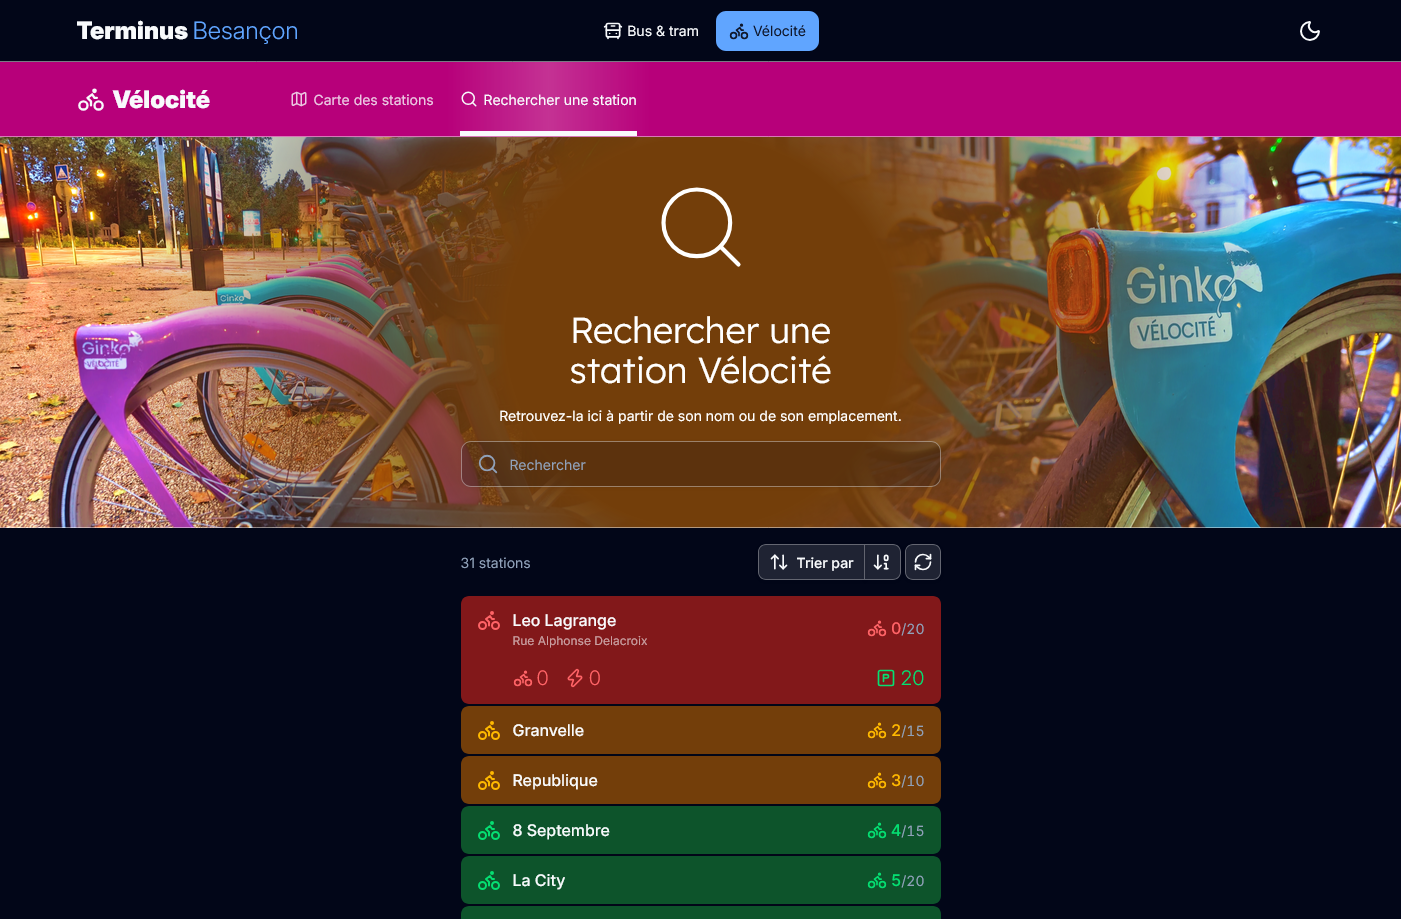
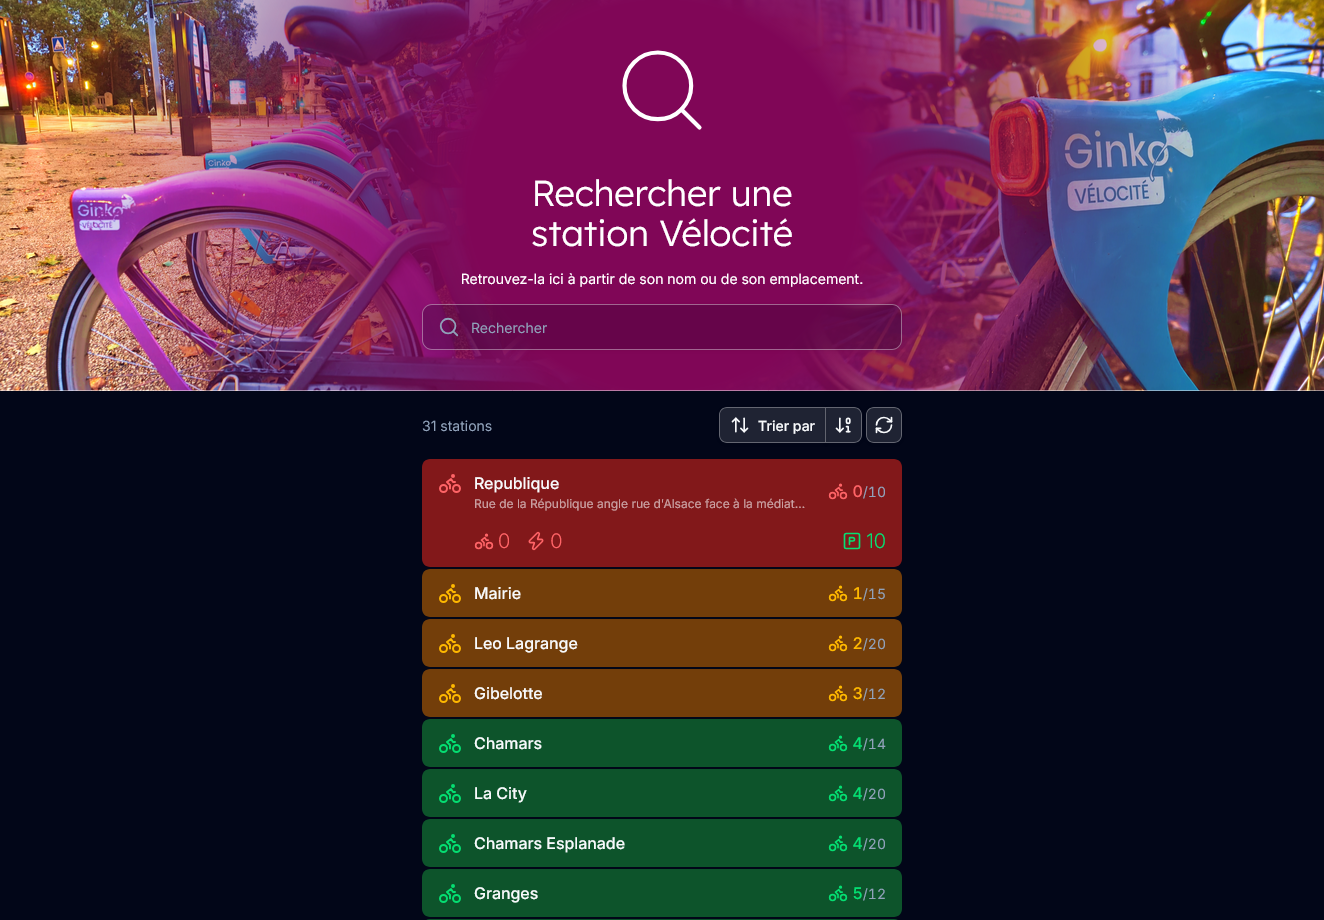
[Velocite/DetailsStation] Fix responsive problems

diff --git a/src/routes/velocite/stations/[id]/+page.svelte b/src/routes/velocite/stations/[id]/+page.svelte
@@ -63,9 +63,9 @@
 
 <main class="mb:pb-0 m-auto max-w-4xl p-4 pb-18">
 	<div
-		class="recap relative m-auto grid max-w-130 border-[#000000cc] lg:-mt-65 lg:mr-0 lg:max-w-138 lg:rounded-4xl lg:border-t lg:bg-background lg:p-4 lg:pb-0 xl:mx-auto dark:lg:border-[#ffffffaa]"
+		class="recap relative grid max-w-130 border-[#000000cc] sm:m-auto lg:-mt-65 lg:mr-0 lg:max-w-138 lg:rounded-t-4xl lg:border-t lg:bg-background lg:p-4 lg:pb-0 xl:mx-auto dark:lg:border-[#ffffffaa]"
 	>
-		<RecapSection {station} class="mb-4" />
+		<RecapSection {station} class="mb-0.5 md:mb-4" />
 		<ProgressBar {station} />
 	</div>
 
@@ -84,33 +84,35 @@
 </main>
 
 <style>
-	.recap {
-		--corner-size: 30px;
-		&::before,
-		&::after {
-			content: '';
-			position: absolute;
-			background: var(--background);
-			width: var(--corner-size);
-			height: var(--corner-size);
-			top: 213px;
-		}
+	@media (width >= 64rem /* 1024px */) {
+		.recap {
+			--corner-size: 30px;
+			&::before,
+			&::after {
+				content: '';
+				position: absolute;
+				background: var(--background);
+				width: var(--corner-size);
+				height: var(--corner-size);
+				top: 213px;
+			}
 
-		&::before {
-			left: calc(-1 * var(--corner-size));
-			mask-image: radial-gradient(
-				circle var(--corner-size) at top left,
-				transparent var(--corner-size),
-				black calc(var(--corner-size) + 0.5px)
-			);
-		}
-		&::after {
-			right: calc(-1 * var(--corner-size));
-			mask-image: radial-gradient(
-				circle var(--corner-size) at top right,
-				transparent var(--corner-size),
-				black calc(var(--corner-size) + 0.5px)
-			);
+			&::before {
+				left: calc(-1 * var(--corner-size));
+				mask-image: radial-gradient(
+					circle var(--corner-size) at top left,
+					transparent var(--corner-size),
+					black calc(var(--corner-size) + 0.5px)
+				);
+			}
+			&::after {
+				right: calc(-1 * var(--corner-size));
+				mask-image: radial-gradient(
+					circle var(--corner-size) at top right,
+					transparent var(--corner-size),
+					black calc(var(--corner-size) + 0.5px)
+				);
+			}
 		}
 	}
 </style>

diff --git a/src/routes/velocite/stations/[id]/StationAddress.svelte b/src/routes/velocite/stations/[id]/StationAddress.svelte
@@ -1,8 +1,6 @@
 <script lang="ts">
-	import { Copy, CopyCheck, Locate, MapPin } from '@lucide/svelte';
 	import type { FormattedStation } from '$core/dto/jcdecaux';
 	import { cn } from '$lib/utils.js';
-	import { Button } from '$shadcn/button';
 
 	import GoogleLogo from '$assets/logo/google-maps.png';
 	import BingLogo from '$assets/logo/bing-maps.png';
@@ -56,54 +54,15 @@
 			logo: WazeLogo
 		}
 	]);
-
-	let timeoutId: ReturnType<typeof setTimeout> | null = $state(null);
-
-	function copyAddress() {
-		// Clear previous timeout
-		if (timeoutId) {
-			clearTimeout(timeoutId);
-		}
-
-		// Copy address
-		copyToClipboard(station.address);
-
-		// Set new timeout
-		timeoutId = setTimeout(() => {
-			timeoutId = null;
-		}, 2000);
-	}
-
-	function copyToClipboard(value: string) {
-		navigator.clipboard.writeText(value);
-	}
 </script>
 
 <div title="Emplacement" class={cn(className)}>
 	<h2 class="mt-2 mb-0.5 text-lg font-bold">Emplacement</h2>
-
-	<Button
-		class="h-auto w-full gap-2 rounded-xl px-4 py-2"
-		variant={timeoutId ? 'outline' : 'secondary'}
-		onclick={copyAddress}
-	>
-		<MapPin class="size-5 shrink-0" />
-		<div class="flex flex-1 flex-col items-center justify-center text-center text-sm">
-			<p class="font-semibold">Adresse</p>
-			<p class="text-muted-foreground">{station.address}</p>
-		</div>
-		{#if timeoutId}
-			<CopyCheck class="size-5 shrink-0 text-green-600 dark:text-green-400" stokeWidth={3} />
-		{:else}
-			<Copy class="size-5 shrink-0" />
-		{/if}
-	</Button>
+	<p class="text-sm text-muted-foreground">{station.address}</p>
 
 	<div class="mt-4 grid">
 		<p class="font-semibold">Voir sur une carte</p>
-		<nav
-			class="-mx-4 mt-2 flex w-[calc(100%+2rem)] gap-4 overflow-auto px-4 md:flex-wrap md:gap-x-8"
-		>
+		<nav class="mt-2 flex gap-4 overflow-auto px-4 md:flex-wrap md:gap-x-8">
 			{#each apps as app (app.name)}
 				<a href={app.url} target="_blank" class="group flex flex-col items-center gap-1 rounded-md">
 					<img src={app.logo} alt={'Logo de ' + app.name} class="size-20 shrink-0 rounded-[25%]" />

diff --git a/src/routes/velocite/stations/[id]/StationHeader.svelte b/src/routes/velocite/stations/[id]/StationHeader.svelte
@@ -79,7 +79,7 @@
 					<span class="sr-only">Liste des stations</span>
 				</Button>
 
-				<div class="flex max-w-40 justify-end gap-2">
+				<div class="flex max-w-40 justify-end gap-2 lg:flex-col xl:flex-row">
 					<!-- TODO: Actions (add to bookmarks, share, open in map) -->
 					{#if wakeLockSupported}
 						<KeepScreenAwake
@@ -93,12 +93,12 @@
 			</div>
 
 			<div class="flex flex-wrap p-4">
-				<div class="grid place-content-end justify-start sm:w-75 md:h-40">
+				<div class="grid place-content-end justify-start sm:w-75 lg:h-24 xl:h-40">
 					<h1 class="text-3xl leading-none font-black text-balance sm:text-4xl md:text-5xl">
 						{station.formattedName}
 					</h1>
 					{#if station.address !== null && station.address !== ''}
-						<p class="mt-1 text-xs text-balance">{station.address}</p>
+						<p class="mt-1 hidden text-xs text-balance lg:inline">{station.address}</p>
 					{/if}
 				</div>
 			</div>
